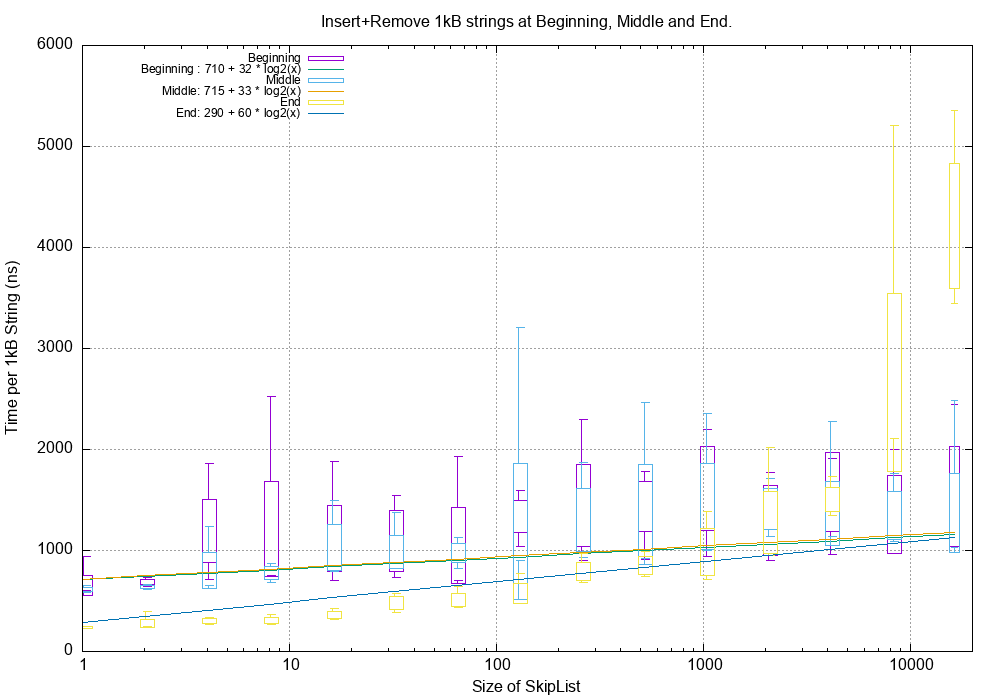
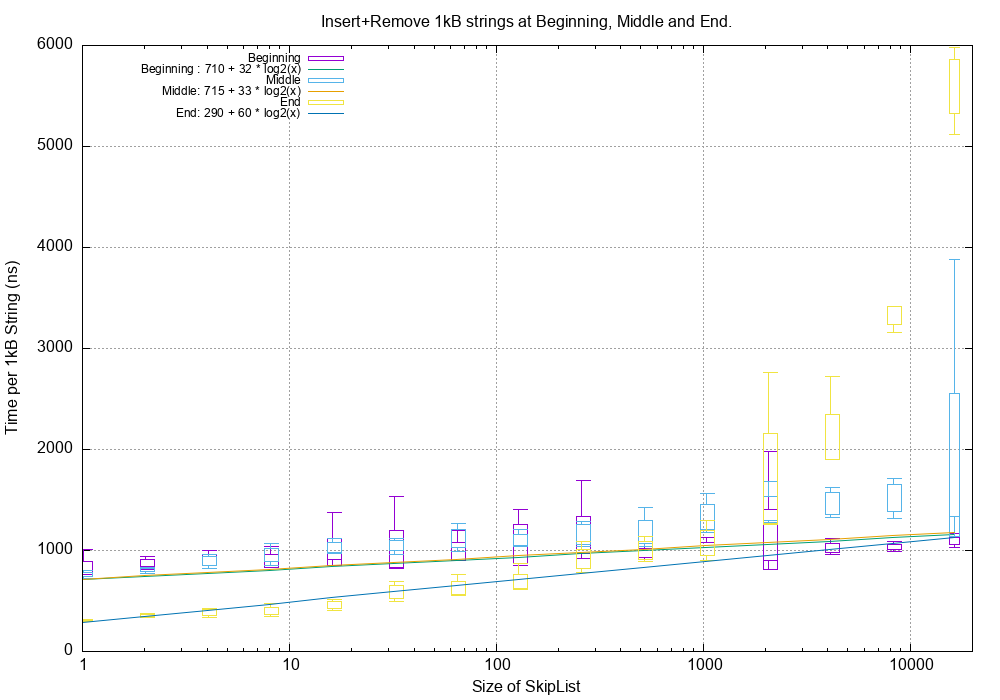
Re-enable tests, rebuild performance plots.

diff --git a/src/cpp/test/test_performance.cpp b/src/cpp/test/test_performance.cpp
@@ -1104,7 +1104,7 @@ int perf_test_string_insert_remove_value_end(size_t test_count, size_t repeat, T
 int perf_skiplist() {
     int result = 0;
 
-#if 0
+#if 1
     result |= perf_single_insert_remove();
     result |= perf_large_skiplist_ins_only();
     result |= perf_large_skiplist_ins_rem();
@@ -1126,7 +1126,7 @@ int perf_skiplist() {
 
     // Multiple statistical tests
     TestResultS perf_test_results;
-#if 0
+#if 1
     result |= perf_test_double_insert_remove_value_begin(100, 10, perf_test_results);
     result |= perf_test_double_insert_remove_value_mid(100, 10, perf_test_results);
     result |= perf_test_double_insert_remove_value_end(100, 10, perf_test_results);
@@ -1191,7 +1191,7 @@ int test_performance_all() {
     int result = 0;
 
     result |= perf_skiplist();
-#if 0
+#if 1
     result |= perf_size();
     result |= perf_skiplist_unfair_coin();
 #endif

diff --git a/src/cpp/main.cpp b/src/cpp/main.cpp
@@ -76,7 +76,7 @@ int test_example_introduction_A(void) {
 int test_all() {
     int result = 0;
 
-#if 0
+#if 1
     result |= test_example_introduction_A();
 
     result |= test_functional_all();
@@ -90,7 +90,7 @@ int test_all() {
     result |= test_performance_all();
 #endif // DEBUG
 #endif
-#if 0
+#if 1
     // test_concurrent_all() only executes performance tests #ifndef DEBUG
     result |= test_concurrent_all();
 #endif
